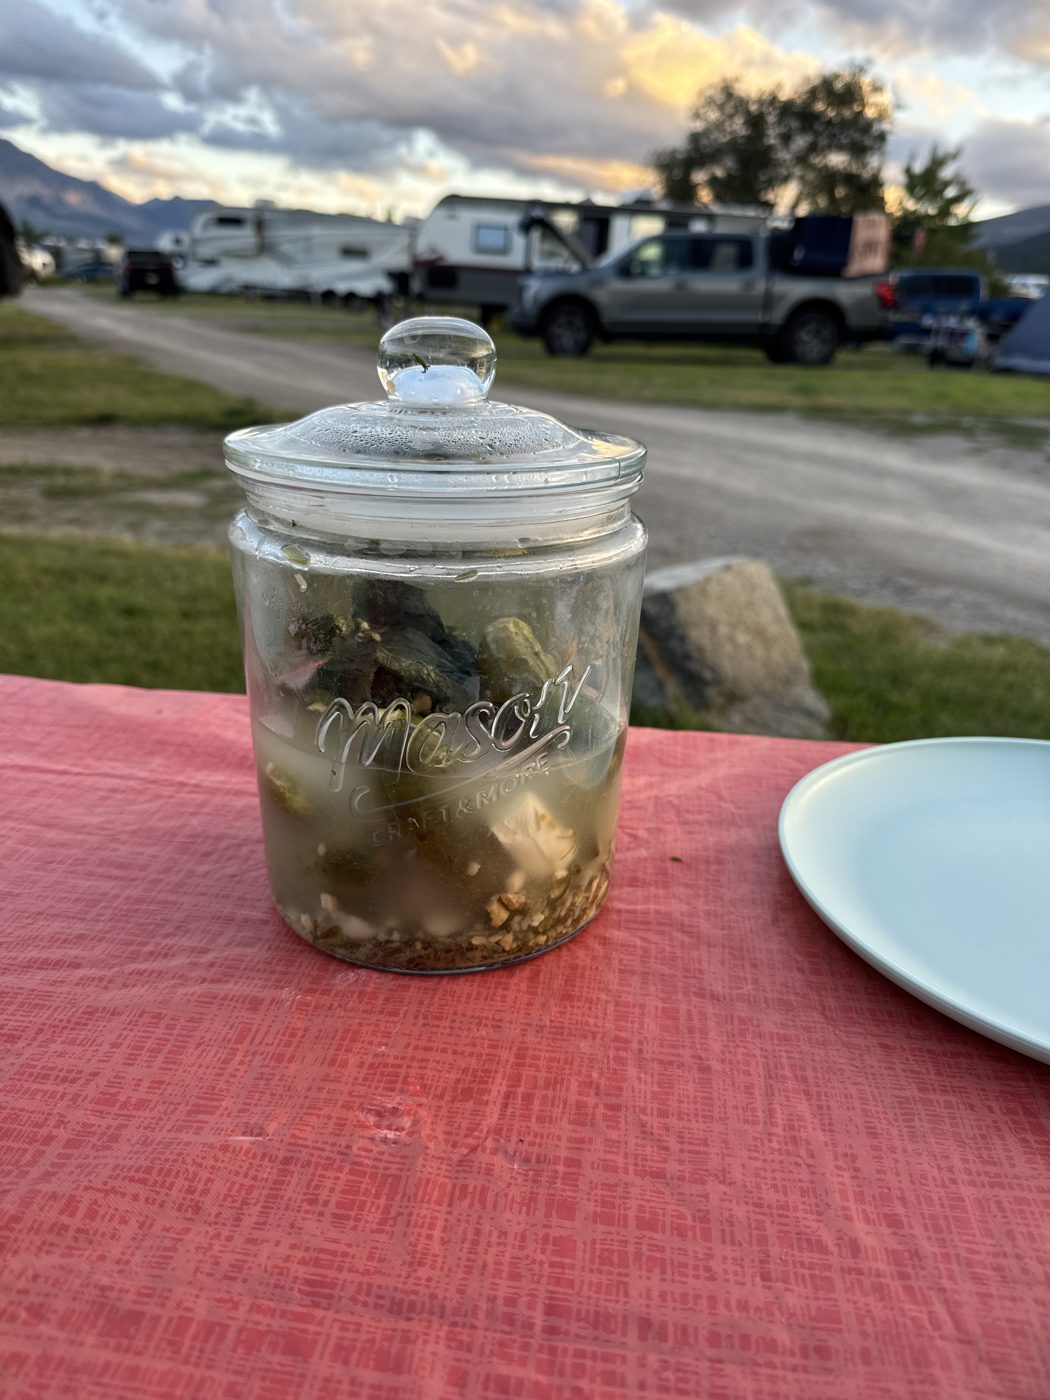
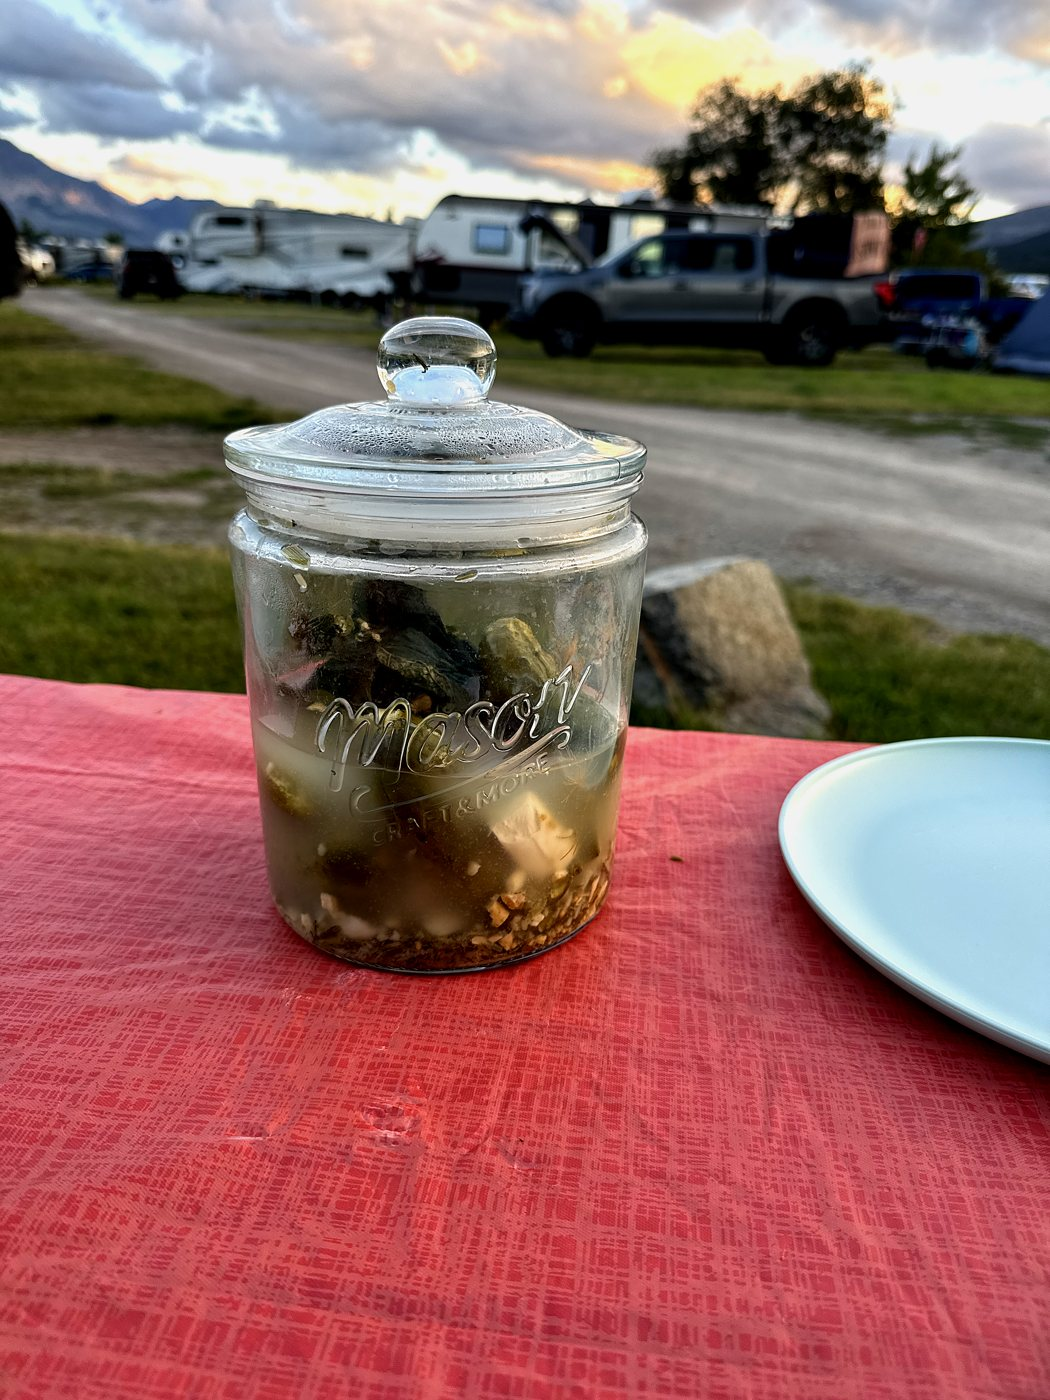
Caption fermentation photo and surface the mountains
Add a Glacier National Park caption, boost the photo's contrast so the
background mountains read, and shift this photo's popup crop up (per-blurb
imgPos) so they're visible.

diff --git a/assets/js/molecule.js b/assets/js/molecule.js
@@ -341,7 +341,7 @@ function initMolecule() {
         aging:   { title: 'Useless expertise', img: '/assets/images/fridge.jpg', text: "I have an uncanny memory for the inside of fridges. Open one once and I can tell you, years later, exactly which shelf the mustard lives on. (Random fridge, a Connecticut basement, 2026.)" },
         music:   { title: 'On repeat', text: "There's always one song I've decided is the greatest ever recorded, and I'll loop it until everyone agrees or quietly leaves. The pick changes weekly.", link: { href: 'https://open.spotify.com/user/emilka.2006?si=2585f563cebe473e', label: 'My Spotify' } },
         cars:    { title: 'Quiet marvels', text: "A genuine, faintly unreasonable love for catalytic converters — a palm-sized lattice of platinum, palladium and rhodium that turns toxic exhaust into mostly water and CO2. Chemistry doing quiet, beautiful work." },
-        cooking: { title: 'Always bubbling', img: '/assets/images/ferment.jpg', text: "Devoted to fermentation. There's always a jar of something alive on my counter — kimchi, kraut, hot sauce, the occasional experiment I don't mention. Letting microbes do the cooking is the closest thing to magic I know." },
+        cooking: { title: 'Always bubbling', img: '/assets/images/ferment.jpg', imgPos: 'center 26%', text: "Devoted to fermentation. There's always a jar of something alive on my counter — kimchi, kraut, hot sauce, the occasional experiment I don't mention. Letting microbes do the cooking is the closest thing to magic I know. (A jar of homemade pickles in Glacier National Park — my favorite park!!)" },
         origins: { title: 'Time sink', img: '/assets/images/map.jpg', text: "Give me a good map and I will happily disappear into it — especially urban rail maps. I can lose the better part of an hour comparing how different cities draw and untangle their transit lines. (Caught communing with the Montréal Métro.)" }
     };
 
@@ -413,6 +413,7 @@ function initMolecule() {
                 const img = tip.querySelector('.atom-tip-img');
                 if (b.img) {
                     img.src = b.img;
+                    img.style.objectPosition = b.imgPos || 'center';
                     img.style.display = 'block';
                 } else {
                     img.removeAttribute('src');